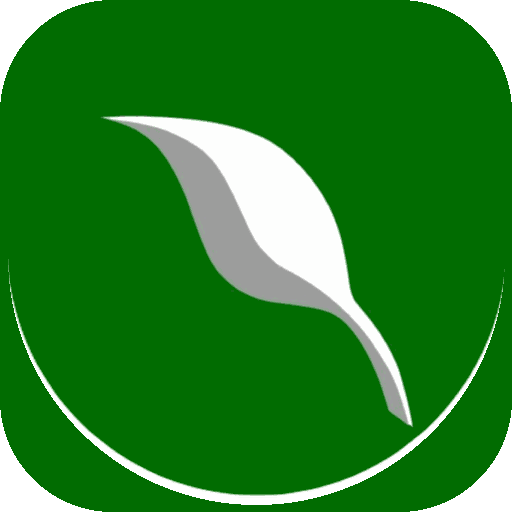
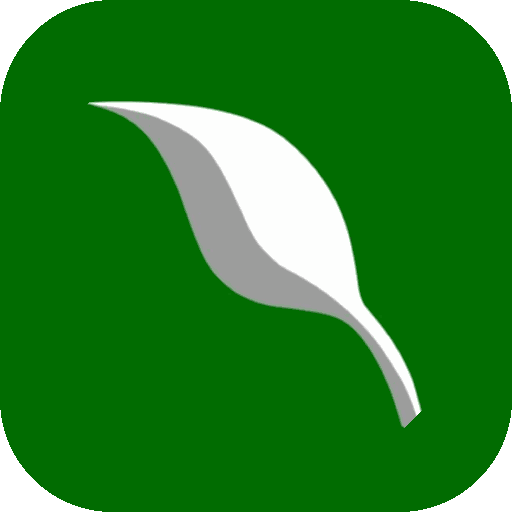
Instalação no iPhone: ícone próprio, guia de instalação e botão Instalar no Android
- apple-touch-icon 180x180 opaco (o iPhone não aceita bem PNG com transparência)
- cartão com o passo a passo do Safari, que some depois de instalado
- botão Instalar quando o navegador oferece (Android/Chrome)
- barra de abas escondida de fato na tela de entrar ([hidden])

Claude-Session: https://claude.ai/code/session_01PQ5n9BUGFuYLjCzRLEAy8p

diff --git a/app.js b/app.js
@@ -225,6 +225,7 @@
     sun: '<circle cx="12" cy="12" r="4"/><path d="M12 2v2M12 20v2M4.9 4.9l1.4 1.4M17.7 17.7l1.4 1.4M2 12h2M20 12h2M4.9 19.1l1.4-1.4M17.7 6.3l1.4-1.4"/>',
     trash: '<path d="M3 6h18M8 6V4h8v2M6 6l1 14h10l1-14"/>',
     send: '<path d="M22 2 11 13M22 2l-7 20-4-9-9-4z"/>',
+    share: '<path d="M12 3v12M8 7l4-4 4 4"/><path d="M5 12v7a2 2 0 0 0 2 2h10a2 2 0 0 0 2-2v-7"/>',
     edit: '<path d="M12 20h9M16.5 3.5a2.1 2.1 0 0 1 3 3L7 19l-4 1 1-4z"/>',
   };
   const ic = (n, cls = '') => `<svg class="i ${cls}" viewBox="0 0 24 24" aria-hidden="true">${P[n]}</svg>`;
@@ -256,6 +257,28 @@
     if (f && f.matches('input, textarea')) setTimeout(() => f.focus(), 50);
   }
   function closeSheet() { document.getElementById('sheet-root').innerHTML = ''; }
+
+  /* ---------------- Instalar na tela inicial ---------------- */
+  const IS_IOS = /iphone|ipad|ipod/i.test(navigator.userAgent) || (navigator.platform === 'MacIntel' && navigator.maxTouchPoints > 1);
+  const STANDALONE = (window.matchMedia && window.matchMedia('(display-mode: standalone)').matches) || navigator.standalone === true;
+  let installEvt = null;
+  let installHidden = (() => { try { return localStorage.getItem('louvor-install-hidden') === '1'; } catch (e) { return false; } })();
+  window.addEventListener('beforeinstallprompt', (e) => { e.preventDefault(); installEvt = e; if (!document.querySelector('.sheet')) rerender(); });
+  window.addEventListener('appinstalled', () => { installEvt = null; installHidden = true; rerender(); });
+  function installCard() {
+    if (STANDALONE || installHidden) return '';
+    const close = `<button class="install-x" data-act="hideInstall" aria-label="Fechar">${ic('x', 'sm')}</button>`;
+    if (IS_IOS) {
+      return `<div class="install"><img src="icons/apple-touch-icon.png" alt="" width="44" height="44"><div class="grow"><b>Instale o app no iPhone</b>
+        <p>No Safari, toque em <span class="kbd">${ic('share', 'xs')}</span> Compartilhar (se não aparecer, toque nos <b>•••</b> primeiro), depois em <b>Adicionar à Tela de Início</b> e em <b>Adicionar</b>.</p>
+        <p class="s">Ao abrir pelo ícone, entre de novo com seu e-mail e senha: o iPhone separa o app do Safari.</p></div>${close}</div>`;
+    }
+    if (installEvt) {
+      return `<div class="install"><img src="icons/icon-192.png" alt="" width="44" height="44"><div class="grow"><b>Instale o app</b><p>Fica na tela inicial e abre em tela cheia.</p>
+        <button class="btn primary" style="height:40px;margin-top:6px" data-act="install">Instalar</button></div>${close}</div>`;
+    }
+    return '';
+  }
 
   /* ---------------- Telas ---------------- */
   const views = {};
@@ -292,6 +315,7 @@
       <header class="top"><div class="grow"><div class="sub" style="margin:0">${greet}</div><h1 style="font-size:24px">${esc(first(u))}</h1></div>
         <button class="iconbtn round" data-go="#/avisos" aria-label="Avisos">${ic('bell')}</button>
         <button data-go="#/perfil" aria-label="Perfil">${avatar(u)}</button></header>
+      ${installCard()}
       ${hero}
       ${u.skills.length ? '' : `<button class="card row" data-go="#/perfil"><span class="ic-box" style="background:var(--brand-soft);color:var(--brand)">${ic('mic', 'sm')}</span><div class="grow"><div class="t">Marque suas funções</div><div class="s">Assim o líder consegue te escalar</div></div><span class="chev">${ic('right', 'sm')}</span></button>`}
       <section class="sec"><div class="sec-h"><h2>Esta semana</h2><a class="link" href="#/escalas">Ver escalas</a></div>
@@ -583,7 +607,7 @@
       <div class="auth-card card">
         <div class="seg" role="tablist"><button role="tab" class="${authTab === 'entrar' ? 'on' : ''}" aria-selected="${authTab === 'entrar'}" data-act="authTab" data-t="entrar">Entrar</button><button role="tab" class="${authTab === 'criar' ? 'on' : ''}" aria-selected="${authTab === 'criar'}" data-act="authTab" data-t="criar">Criar conta</button></div>
         ${authTab === 'entrar' ? login : signup}
-      </div></div>`;
+      </div>${installCard()}</div>`;
   }
   const loadingView = () => `<div class="empty-state" style="padding-top:40vh">Carregando escalas…</div>`;
   const orphanView = () => `<header class="top big"><div class="grow"><h1>Quase lá</h1></div></header>
@@ -941,6 +965,8 @@
       });
     });
   };
+  A.hideInstall = () => { installHidden = true; try { localStorage.setItem('louvor-install-hidden', '1'); } catch (e) { /* ok */ } route(); };
+  A.install = async () => { if (!installEvt) return; installEvt.prompt(); try { await installEvt.userChoice; } catch (e) { /* ok */ } installEvt = null; route(); };
   A.authTab = (el) => { authTab = el.dataset.t; route(); };
 
   /* Modo palco: rolagem, tamanho, tema, tela sempre acesa */

diff --git a/styles.css b/styles.css
@@ -30,6 +30,7 @@
 }
 
 * { box-sizing: border-box; }
+[hidden] { display: none !important; }
 html, body { margin: 0; }
 body {
   background: var(--bg);
@@ -301,3 +302,13 @@ body.authpage #view { padding-bottom: max(24px, env(safe-area-inset-bottom, 0px)
 .seg button { height: 40px; border-radius: 9px; font-weight: 600; color: var(--muted); }
 .seg button.on { background: var(--surface); color: var(--ink); box-shadow: 0 1px 3px rgba(20,32,20,.12); }
 .btn-row .btn { padding: 0 10px; white-space: nowrap; font-size: 14.5px; min-width: 0; }
+
+/* ---------- Instalar ---------- */
+.install { display: flex; gap: 12px; align-items: flex-start; background: var(--surface); border: 1.5px solid var(--brand); border-radius: var(--r-card); padding: 14px; position: relative; }
+.install img { border-radius: 10px; flex: none; }
+.install .grow { flex: 1; min-width: 0; padding-right: 22px; }
+.install b { font-size: 15px; }
+.install p { margin: 4px 0 0; font-size: 13.5px; color: var(--ink); }
+.install p.s { color: var(--muted); font-size: 12.5px; }
+.install .kbd { display: inline-flex; align-items: center; justify-content: center; width: 22px; height: 22px; border-radius: 6px; background: var(--accent-soft); color: #0A84FF; vertical-align: -5px; }
+.install-x { position: absolute; top: 8px; right: 8px; width: 32px; height: 32px; display: flex; align-items: center; justify-content: center; color: var(--muted); border-radius: 8px; }

diff --git a/index.html b/index.html
@@ -7,11 +7,12 @@
 <meta name="description" content="Escalas, cifras e avisos do Ministério de Louvor da ICVJ.">
 <meta name="theme-color" content="#006C00">
 <meta name="apple-mobile-web-app-capable" content="yes">
+<meta name="mobile-web-app-capable" content="yes">
 <meta name="apple-mobile-web-app-status-bar-style" content="default">
 <meta name="apple-mobile-web-app-title" content="Louvor ICVJ">
 <link rel="manifest" href="manifest.webmanifest">
 <link rel="icon" href="icons/icon-192.png">
-<link rel="apple-touch-icon" href="icons/icon-192.png">
+<link rel="apple-touch-icon" sizes="180x180" href="icons/apple-touch-icon.png">
 <link rel="preconnect" href="https://fonts.googleapis.com">
 <link rel="preconnect" href="https://fonts.gstatic.com" crossorigin>
 <link rel="stylesheet" href="https://fonts.googleapis.com/css2?family=Figtree:wght@400;500;600;700&family=JetBrains+Mono:wght@400;700&display=swap">

diff --git a/sw.js b/sw.js
@@ -1,6 +1,6 @@
 /* Service worker: guarda o app para abrir sem internet (útil no culto). */
-const CACHE = 'louvor-icvj-v2';
-const SHELL = ['./', 'index.html', 'styles.css', 'config.js', 'app.js', 'manifest.webmanifest', 'icons/logo.png', 'icons/icon-192.png', 'icons/icon-512.png'];
+const CACHE = 'louvor-icvj-v3';
+const SHELL = ['./', 'index.html', 'styles.css', 'config.js', 'app.js', 'manifest.webmanifest', 'icons/logo.png', 'icons/icon-192.png', 'icons/icon-512.png', 'icons/apple-touch-icon.png'];
 
 self.addEventListener('install', (e) => {
   e.waitUntil(caches.open(CACHE).then((c) => c.addAll(SHELL)).then(() => self.skipWaiting()));
